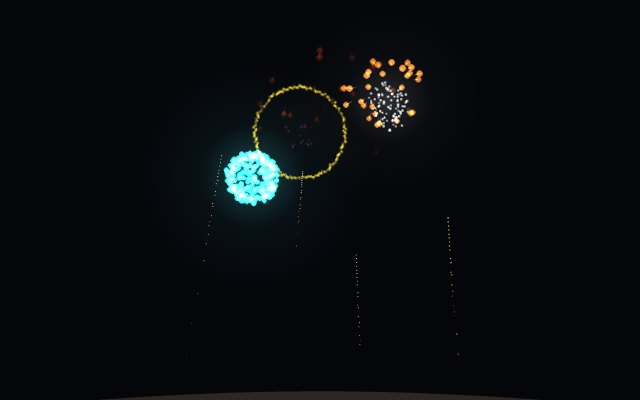
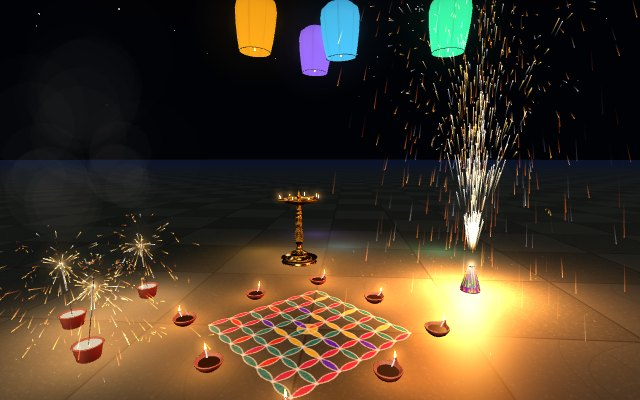
Green Diwali v1.1: neon sky lanterns, random snake shapes, kota floor and night horizon on laptop, bigger शुभ लाभ, new card pictures
Claude-Session: https://claude.ai/code/session_01Hxbxshh8rhVWjQK2rBLtaK

diff --git a/demos/green-diwali/index.html b/demos/green-diwali/index.html
@@ -95,6 +95,7 @@
   #undo{border-color:var(--blue);box-shadow:0 0 12px rgba(76,201,255,.4)}
   #stamp{position:absolute;top:calc(116px + env(safe-area-inset-top));left:12px;font-size:10.5px;color:#c9c6e6;padding:4px 9px;border-radius:999px;background:rgba(5,6,10,.7);
     border:1px solid rgba(155,107,255,.3);pointer-events:auto;white-space:nowrap;overflow:hidden;text-overflow:ellipsis;max-width:46vw}
+  @media (min-width:700px){ #topbar{top:calc(100px + env(safe-area-inset-top))} #stamp{top:calc(142px + env(safe-area-inset-top))} #fps{top:calc(168px + env(safe-area-inset-top)) !important} }
   #fps{position:absolute;top:calc(142px + env(safe-area-inset-top));left:12px;font:11px ui-monospace,monospace;color:var(--ok);
     background:rgba(5,6,10,.7);padding:3px 7px;border-radius:6px;display:none}
   #bottom{position:absolute;left:0;right:0;bottom:calc(14px + env(safe-area-inset-bottom));display:flex;flex-direction:column;gap:10px}
@@ -165,9 +166,9 @@
         <li><span>Camera access</span><span id="c-cam">…</span></li>
       </ul>
 
-      <button class="btn" id="b-ar" hidden><span class="ico"></span>Light up your room</button>
-      <button class="btn" id="b-cam" hidden><span class="ico"></span>Open camera view</button>
-      <button class="btn" id="b-3d"><span class="ico"></span>View in 3D</button>
+      <button class="btn" id="b-ar" hidden><span class="ico"></span>Light up your room<span class="ico"></span></button>
+      <button class="btn" id="b-cam" hidden><span class="ico"></span>Open camera view<span class="ico"></span></button>
+      <button class="btn" id="b-3d"><span class="ico"></span>View in 3D<span class="ico"></span></button>
       <p id="err"></p>
     </div>
     <p class="note"><b>Notice before you begin.</b> Everything here is virtual: nothing burns and nothing is real. It has bright, flashing light and loud bangs (choose Quiet or Pet-safe above, and you can switch any time). Use it at home with some space around you, standing still, not while walking. On iPhone, turn the silent switch off for sound.<br><span id="stamp-home"></span></p>
@@ -198,7 +199,7 @@ import { OrbitControls } from 'three/addons/controls/OrbitControls.js';
 import { GLTFLoader } from 'three/addons/loaders/GLTFLoader.js';
 import { RoomEnvironment } from 'three/addons/environments/RoomEnvironment.js';
 
-const BUILD = 'Green Diwali · v1.0';
+const BUILD = 'Green Diwali · v1.1';
 const $ = (id) => document.getElementById(id);
 $('stamp').textContent = BUILD;
 $('stamp-home').textContent = BUILD;
@@ -214,8 +215,10 @@ const clamp = THREE.MathUtils.clamp;
    with mango leaves — and शुभ hanging on the left end, लाभ on the right.
    A thin neon cord along the top ties it to the site's theme.              */
 function buildToran(el, id) {
-  const W = Math.round(Math.max(280, el.clientWidth || innerWidth)), H = 80;
-  const end = 48;                                              // room for the शुभ / लाभ hangings
+  const W = Math.round(Math.max(280, el.clientWidth || innerWidth));
+  const big = W >= 700;                                        // laptop: bigger शुभ / लाभ
+  const H = big ? 94 : 80, end = big ? 66 : 48;
+  el.style.height = H + 'px';                                              // room for the शुभ / लाभ hangings
   const n = Math.max(3, Math.round((W - 2 * end) / 60));       // how many swags fit
   const sw = (W - 2 * end) / n;
   const u = (k) => `url(#${id}${k})`;
@@ -256,11 +259,12 @@ function buildToran(el, id) {
       o += `<circle cx="${X}" cy="${py}" r="2.4" fill="#c25a00"/>`;
     }
   });
-  [[20, 'शुभ'], [W - 20, 'लाभ']].forEach(([x, word]) => {      // शुभ left, लाभ right
-    for (let k = 0; k < 4; k++) o += pearl(x, 27 + k * 4.6, 2.2);
-    o += `<circle cx="${x}" cy="56" r="15.5" fill="#f2b400"/><circle cx="${x}" cy="56" r="13.3" fill="${u('med')}"/>`;
-    o += `<text x="${x}" y="60.5" text-anchor="middle" font-family="'Tiro Devanagari Hindi', serif" font-size="13.5" fill="#ffe08a">${word}</text>`;
-    o += `<circle cx="${x}" cy="73.5" r="2.4" fill="#c8201a"/><circle cx="${x}" cy="78" r="2.2" fill="#1c6a2b"/>`;
+  const mx = big ? 30 : 20, mr = big ? 21 : 13.3, cy = big ? 60 : 56, fs = big ? 21 : 13.5;
+  [[mx, 'शुभ'], [W - mx, 'लाभ']].forEach(([x, word]) => {     // शुभ left, लाभ right
+    for (let k = 0; k < 4; k++) o += pearl(x, 27 + k * (big ? 3.6 : 4.6), 2.2);
+    o += `<circle cx="${x}" cy="${cy}" r="${mr + 2.2}" fill="#f2b400"/><circle cx="${x}" cy="${cy}" r="${mr}" fill="${u('med')}"/>`;
+    o += `<text x="${x}" y="${cy + fs * 0.34}" text-anchor="middle" font-family="'Tiro Devanagari Hindi', serif" font-size="${fs}" fill="#ffe08a">${word}</text>`;
+    o += `<circle cx="${x}" cy="${cy + mr + 5}" r="2.4" fill="#c8201a"/><circle cx="${x}" cy="${cy + mr + 9.5}" r="2.2" fill="#1c6a2b"/>`;
   });
   el.innerHTML = o + '</svg>';
 }
@@ -317,10 +321,37 @@ const fireLight = new THREE.PointLight(0xff9a3c, 0, 5, 2); scene.add(fireLight);
 const world = new THREE.Group(); scene.add(world);   // everything you place goes in here
 let floorY = 0;                                      // height of the floor (AR finds it; other modes use 0)
 
-// The 3D view (laptop) gets a dark terrace floor so the light pools show
-const terrace = new THREE.Mesh(new THREE.CircleGeometry(7, 64),
-  new THREE.MeshStandardMaterial({ color: 0x2a221c, roughness: 0.92 }));
+// The 3D view (laptop): a kota-stone terrace that runs off into the night,
+// fading into a night-blue horizon under a black sky with faint stars.
+const HORIZON = 0x0a1328;
+const kotaTex = canvasTex(512, 512, (g, w) => {
+  const T = w / 2;                                   // 2 × 2 tiles per picture (each tile 60 cm)
+  for (let ty = 0; ty < 2; ty++) for (let tx = 0; tx < 2; tx++) {
+    const v = rand(-8, 8);
+    g.fillStyle = `rgb(${56 + v},${61 + v},${54 + v})`; g.fillRect(tx * T, ty * T, T, T);
+    for (let i = 0; i < 2500; i++) { const k = rand(-14, 14);
+      g.fillStyle = `rgba(${70 + k},${76 + k},${68 + k},.5)`; g.fillRect(tx * T + rand(0, T), ty * T + rand(0, T), rand(1, 3), rand(1, 3)); }
+    g.strokeStyle = 'rgba(30,34,30,.35)'; g.lineWidth = 1;          // faint veins in the stone
+    for (let k = 0; k < 3; k++) { g.beginPath(); g.moveTo(tx * T + rand(0, T), ty * T); g.bezierCurveTo(tx * T + rand(0, T), ty * T + T * 0.3, tx * T + rand(0, T), ty * T + T * 0.7, tx * T + rand(0, T), ty * T + T); g.stroke(); }
+  }
+  g.fillStyle = '#1e201d'; for (let k = 0; k <= 2; k++) { g.fillRect(k * T - 1.5, 0, 3, w); g.fillRect(0, k * T - 1.5, w, 3); }   // grout
+});
+kotaTex.repeat.set(233, 233); kotaTex.wrapS = kotaTex.wrapT = THREE.RepeatWrapping; kotaTex.anisotropy = 8;
+const terrace = new THREE.Mesh(new THREE.CircleGeometry(140, 64),
+  new THREE.MeshStandardMaterial({ map: kotaTex, roughness: 0.62, metalness: 0, envMapIntensity: 0.12 }));
 terrace.rotation.x = -Math.PI / 2; terrace.visible = false; scene.add(terrace);
+const skyDome = new THREE.Mesh(new THREE.SphereGeometry(190, 32, 16), new THREE.ShaderMaterial({
+  side: THREE.BackSide, depthWrite: false, fog: false,
+  uniforms: { uHor: { value: new THREE.Color(HORIZON) } },
+  vertexShader: `varying vec3 vD; void main(){ vD = normalize(position); gl_Position = projectionMatrix * modelViewMatrix * vec4(position,1.0); }`,
+  fragmentShader: `uniform vec3 uHor; varying vec3 vD;
+    float h(vec3 p){ return fract(sin(dot(p, vec3(12.9898,78.233,37.719))) * 43758.5453); }
+    void main(){ float y = max(vD.y, 0.0);
+      vec3 col = mix(uHor, vec3(0.008,0.01,0.02), smoothstep(0.0, 0.6, y));
+      vec3 c = floor(vD * 260.0); float st = step(0.9975, h(c)) * smoothstep(0.08, 0.35, y) * (0.5 + 0.5 * h(c + 1.0));
+      gl_FragColor = vec4(col + vec3(st * 0.7), 1.0); }`,
+}));
+skyDome.visible = false; skyDome.renderOrder = -1; scene.add(skyDome);
 
 // Floor ring that shows where a tap will place things (AR and camera view)
 const reticle = new THREE.Group();
@@ -362,7 +393,7 @@ const poolTex = canvasTex(128, 128, (g, w) => {
 poolTex.colorSpace = THREE.NoColorSpace;
 
 function glowSprite(color, size, opacity = 1) {
-  const s = new THREE.Sprite(new THREE.SpriteMaterial({ map: glowTex, color, transparent: true, opacity,
+  const s = new THREE.Sprite(new THREE.SpriteMaterial({ map: glowTex, color, transparent: true, opacity, fog: false,
     blending: THREE.AdditiveBlending, depthWrite: false, toneMapped: false }));
   s.scale.setScalar(size); return s;
 }
@@ -1198,8 +1229,8 @@ const snakePath = new THREE.CatmullRomCurve3([
   [0.19, 0.135, 0.028], [0.21, 0.085, 0.038], [0.205, 0.04, 0.05], [0.185, 0.016, 0.062], [0.16, 0.02, 0.05], [0.152, 0.04, 0.035],
   [0.168, 0.055, 0.022], [0.192, 0.045, 0.025], [0.205, 0.022, 0.04], [0.2, 0.009, 0.06]].map((a) => new THREE.Vector3(...a)));
 const SNAKE_SEG = 160, SNAKE_RAD = 10, SNAKE_R = 0.0068;
-const snakeGeo = (() => {
-  const g = new THREE.TubeGeometry(snakePath, SNAKE_SEG, SNAKE_R, SNAKE_RAD, false);
+function buildSnakeGeo(path) {
+  const g = new THREE.TubeGeometry(path, SNAKE_SEG, SNAKE_R, SNAKE_RAD, false);
   const p = g.attributes.position, n = g.attributes.normal;
   for (let j = 0; j <= SNAKE_SEG; j++) {             // lumpy, wrinkled ash
     const ring = 0.07 * Math.sin(j * 0.55) + 0.05 * Math.sin(j * 1.9 + 1) + 0.035 * Math.sin(j * 5.3);
@@ -1209,8 +1240,26 @@ const snakeGeo = (() => {
       p.setXYZ(k, p.getX(k) + n.getX(k) * r, p.getY(k) + n.getY(k) * r, p.getZ(k) + n.getZ(k) * r);
     }
   }
-  g.computeVertexNormals(); g.userData.shared = true; return g;
-})();
+  g.computeVertexNormals(); return g;
+}
+const snakeGeo = buildSnakeGeo(snakePath); snakeGeo.userData.shared = true;   // only used to warm up the graphics chip
+/* A new track for every snake: it rises a few cm, flops over to one side, then
+   runs along the floor in a loose, wandering line (never the same twice).    */
+function randomSnakePath() {
+  const pts = [new THREE.Vector3(0, 0.004, 0)];
+  const h = rand(0.035, 0.07);
+  let a = rand(-0.4, 0.4), x = rand(0.002, 0.008), z = rand(-0.004, 0.004);
+  pts.push(new THREE.Vector3(x * 0.5, h * 0.55, z * 0.5), new THREE.Vector3(x, h, z));
+  x += Math.cos(a) * 0.03; z += Math.sin(a) * 0.03; pts.push(new THREE.Vector3(x, h * 0.75, z));
+  x += Math.cos(a) * 0.03; z += Math.sin(a) * 0.03; pts.push(new THREE.Vector3(x, h * 0.3, z));
+  const n = 6 + (Math.random() * 4 | 0);
+  for (let i = 0; i < n; i++) {                       // along the floor, wandering
+    a += rand(-0.55, 0.55); const step = rand(0.032, 0.05);
+    x += Math.cos(a) * step; z += Math.sin(a) * step;
+    pts.push(new THREE.Vector3(x, SNAKE_R + rand(0.001, 0.009), z));
+  }
+  return new THREE.CatmullRomCurve3(pts);
+}
 const ashTex = canvasTex(256, 64, (g, w, h) => {
   g.fillStyle = '#2b2927'; g.fillRect(0, 0, w, h);
   for (let i = 0; i < 2600; i++) { const v = rand(-30, 45) | 0;
@@ -1224,11 +1273,9 @@ const tabletMat = new THREE.MeshStandardMaterial({ color: 0x141210, roughness: 0
 function makeSnake(pos) {
   const group = new THREE.Group(); group.position.copy(pos); group.rotation.y = rand(0, 6.283);
   group.scale.setScalar(rand(0.9, 1.15));
-  const body = new THREE.Mesh(snakeGeo, ashMat); body.geometry = snakeGeo; group.add(body);
-  const drawn = new THREE.BufferGeometry();              // a view onto the shared tube, so each snake has its own length
-  drawn.index = snakeGeo.index; drawn.attributes = snakeGeo.attributes; drawn.userData.shared = true;
-  drawn.boundingSphere = new THREE.Sphere(new THREE.Vector3(0.1, 0.1, 0.03), 0.3);
-  body.geometry = drawn; drawn.setDrawRange(0, 0);
+  const path = randomSnakePath();
+  const drawn = buildSnakeGeo(path); drawn.setDrawRange(0, 0);
+  const body = new THREE.Mesh(drawn, ashMat); body.frustumCulled = false; group.add(body);
   const head = new THREE.Mesh(new THREE.SphereGeometry(SNAKE_R * 1.15, 10, 8), ashMat); group.add(head);
   const tablet = new THREE.Mesh(new THREE.CylinderGeometry(0.009, 0.0095, 0.005, 16), tabletMat); tablet.position.y = 0.0025; group.add(tablet);
   const flame = makeFlame(0.045, 0.028); flame.position.set(-0.006, 0.004, 0.002); group.add(flame);
@@ -1246,14 +1293,14 @@ function makeSnake(pos) {
       const frac = Math.min(1, (1 - Math.exp(-t0 / 8)) / (1 - Math.exp(-BURN / 8)));
       const segs = Math.max(1, Math.ceil(frac * SNAKE_SEG));
       drawn.setDrawRange(0, segs * SNAKE_RAD * 6);
-      head.position.copy(snakePath.getPointAt(Math.min(1, segs / SNAKE_SEG)));
+      head.position.copy(path.getPointAt(Math.min(1, segs / SNAKE_SEG)));
       tablet.scale.setScalar(Math.max(0.3, 1 - frac * 0.7));
       const f = flick(t, seed) * on;
       flame.material.uniforms.uTime.value = t; flame.material.uniforms.uBright.value = f; flame.scale.setScalar(Math.max(0.01, on * (0.8 + 0.3 * Math.sin(t * 3 + seed))));
       ember.material.opacity = 0.8 * f; pool.material.opacity = 0.45 * f; it.glow = 0.7 * f;
       if (on > 0) {   // thick smoke from the base, and some off the snake itself
         if (Math.random() < dt * 4 * on) { _v.set(rand(-0.01, 0.01), 0.02, rand(-0.01, 0.01)); group.localToWorld(_v); puff(_v.x, _v.y, _v.z, 1.0, 1.9); }
-        if (Math.random() < dt * 1.5 * on) { _v.copy(snakePath.getPointAt(rand(0, frac))); group.localToWorld(_v); puff(_v.x, _v.y + 0.01, _v.z, 0.8, 1.4); }
+        if (Math.random() < dt * 1.5 * on) { _v.copy(path.getPointAt(rand(0, frac))); group.localToWorld(_v); puff(_v.x, _v.y + 0.01, _v.z, 0.8, 1.4); }
         if (Math.random() < dt * 8 * on) crackle(group.position, 0.03);
         if (voice) voice.set(0.12 * on);
       }
@@ -1275,27 +1322,28 @@ const lanternGeo = (() => {
 })();
 const lanternTex = canvasTex(256, 256, (g, w, h) => {
   const gr = g.createLinearGradient(0, h, 0, 0);       // canvas bottom = lantern bottom (near the flame) = brightest
-  gr.addColorStop(0, '#fff6dc'); gr.addColorStop(0.45, '#ffe2a6'); gr.addColorStop(1, '#f7b768');
+  gr.addColorStop(0, '#ffffff'); gr.addColorStop(0.45, '#f2eeea'); gr.addColorStop(1, '#bdb6c4');   // neutral paper: the neon tint gives the colour
   g.fillStyle = gr; g.fillRect(0, 0, w, h);
   g.strokeStyle = 'rgba(150,80,20,.22)'; g.lineWidth = 2;
   for (let x = 0; x < w; x += w / 8) { g.beginPath(); g.moveTo(x, 0); g.lineTo(x, h); g.stroke(); }   // paper seams
   for (let i = 0; i < 1500; i++) { g.fillStyle = `rgba(255,255,255,${rand(0, 0.08)})`; g.fillRect(rand(0, w), rand(0, h), 2, 2); }
 });
-const LANTERN_TINTS = [0xffffff, 0xffc08a, 0xff9e7a, 0xffd36b, 0xffa8c8];
+const LANTERN_TINTS = [0xff4fd8, 0x9b6bff, 0x4cc9ff, 0x3dffb0, 0xffab1a, 0xff5a7a];   // neon pink, violet, blue, mint, marigold, rose
 const ringGeo = new THREE.TorusGeometry(0.105, 0.0016, 6, 40).rotateX(Math.PI / 2); ringGeo.userData.shared = true;
 const wireMat = new THREE.MeshStandardMaterial({ color: 0x3a3028, roughness: 0.8 });
 
 function makeLantern(pos) {
   const group = new THREE.Group(); group.position.copy(pos);
-  const S = 1.25;
-  const paper = new THREE.Mesh(lanternGeo, new THREE.MeshBasicMaterial({ map: lanternTex, color: LANTERN_TINTS[Math.random() * LANTERN_TINTS.length | 0],
-    side: THREE.DoubleSide, transparent: true, opacity: 0.94, toneMapped: false }));
+  const S = 0.95;
+  const tint = LANTERN_TINTS[Math.random() * LANTERN_TINTS.length | 0];
+  const paper = new THREE.Mesh(lanternGeo, new THREE.MeshBasicMaterial({ map: lanternTex, color: tint,
+    side: THREE.DoubleSide, transparent: true, opacity: 0.94, toneMapped: false, fog: false }));
   const shell = new THREE.Group(); shell.scale.setScalar(S); group.add(shell); shell.add(paper);
   shell.add(new THREE.Mesh(ringGeo, wireMat));
   const flame = makeFlame(0.04, 0.02); flame.position.y = 0.01; shell.add(flame);
-  const inner = glowSprite(0xffb050, 0.28, 0.6); inner.position.y = 0.12; shell.add(inner);
-  const halo = glowSprite(0xff9a40, 1.1, 0.3); halo.position.y = 0.2; shell.add(halo);      // keeps it visible as a glowing dot far away
-  const pool = lightPool(0xffa050, 0.7); group.add(pool);
+  const inner = glowSprite(tint, 0.28, 0.6); inner.position.y = 0.12; shell.add(inner);
+  const halo = glowSprite(tint, 0.9, 0.3); halo.position.y = 0.2; shell.add(halo);      // keeps it visible as a glowing dot far away
+  const pool = lightPool(tint, 0.6); group.add(pool);
   const base = pos.y, seed = rand(0, 50), baseColour = paper.material.color.clone();
   let t0 = 0, vy = 0, rise = 0;
   const it = {
@@ -1548,7 +1596,7 @@ function makeRangoli(pos) {
             for (let k = 0; k <= st; k++) powderDot(g, a[0] + (b[0] - a[0]) * k / st, a[1] + (b[1] - a[1]) * k / st, 2.4, '#fffaf0', 2); } });
           dots.forEach(([x, y]) => powderDot(g, x, y, 7, '#ffffff', 50));
           finished = true; dirty = true;
-          if (tool === 'rangoli') hint('शुभ दीपावली! Shubh Dipawali! Now pick दीया Diya and tap around the rangoli. Tap the rangoli again for a new pattern.');
+          if (tool === 'rangoli') hint('शुभ दीपावली! Now pick दीया and tap around the rangoli. Tap the rangoli again for a new pattern.');
         }
       }
       if (dirty) tex.needsUpdate = true;
@@ -1924,8 +1972,9 @@ function floorHit(x, y, out) {   // screen point (−1…1) → spot on the floo
 
 /* ---------- Mode C: 3D view (laptop) ---------- */
 function start3D() {
-  mode = '3d'; enterViewing(); floorY = 0; terrace.visible = true;
-  renderer.setClearColor(0x05060a, 1);
+  scene.fog = new THREE.FogExp2(HORIZON, 0.045);      // the floor fades into the horizon: endless
+  mode = '3d'; enterViewing(); floorY = 0; terrace.visible = true; skyDome.visible = true;
+  renderer.setClearColor(HORIZON, 1);
   camera.position.set(0, 1.05, 1.55);
   controls = new OrbitControls(camera, renderer.domElement);
   controls.target.set(0, 0.25, 0); controls.enableDamping = true; controls.maxPolarAngle = 1.45;
@@ -1979,7 +2028,7 @@ function backHome(showFinale = true) {
   while (items.length) removeItem(items[0]);
   clearSparks(); skyUntil = 0; skyRising = []; stopCity();
   if (controls) { controls.dispose(); controls = null; }
-  terrace.visible = false; renderer.setClearColor(0x000000, 0);
+  terrace.visible = false; skyDome.visible = false; scene.fog = null; renderer.setClearColor(0x000000, 0);
   mode = 'home'; $('hud').style.display = 'none'; $('home').style.display = 'flex'; $('fallback').hidden = true;
   if (showFinale) document.querySelector('.card').classList.add('after');
 }
